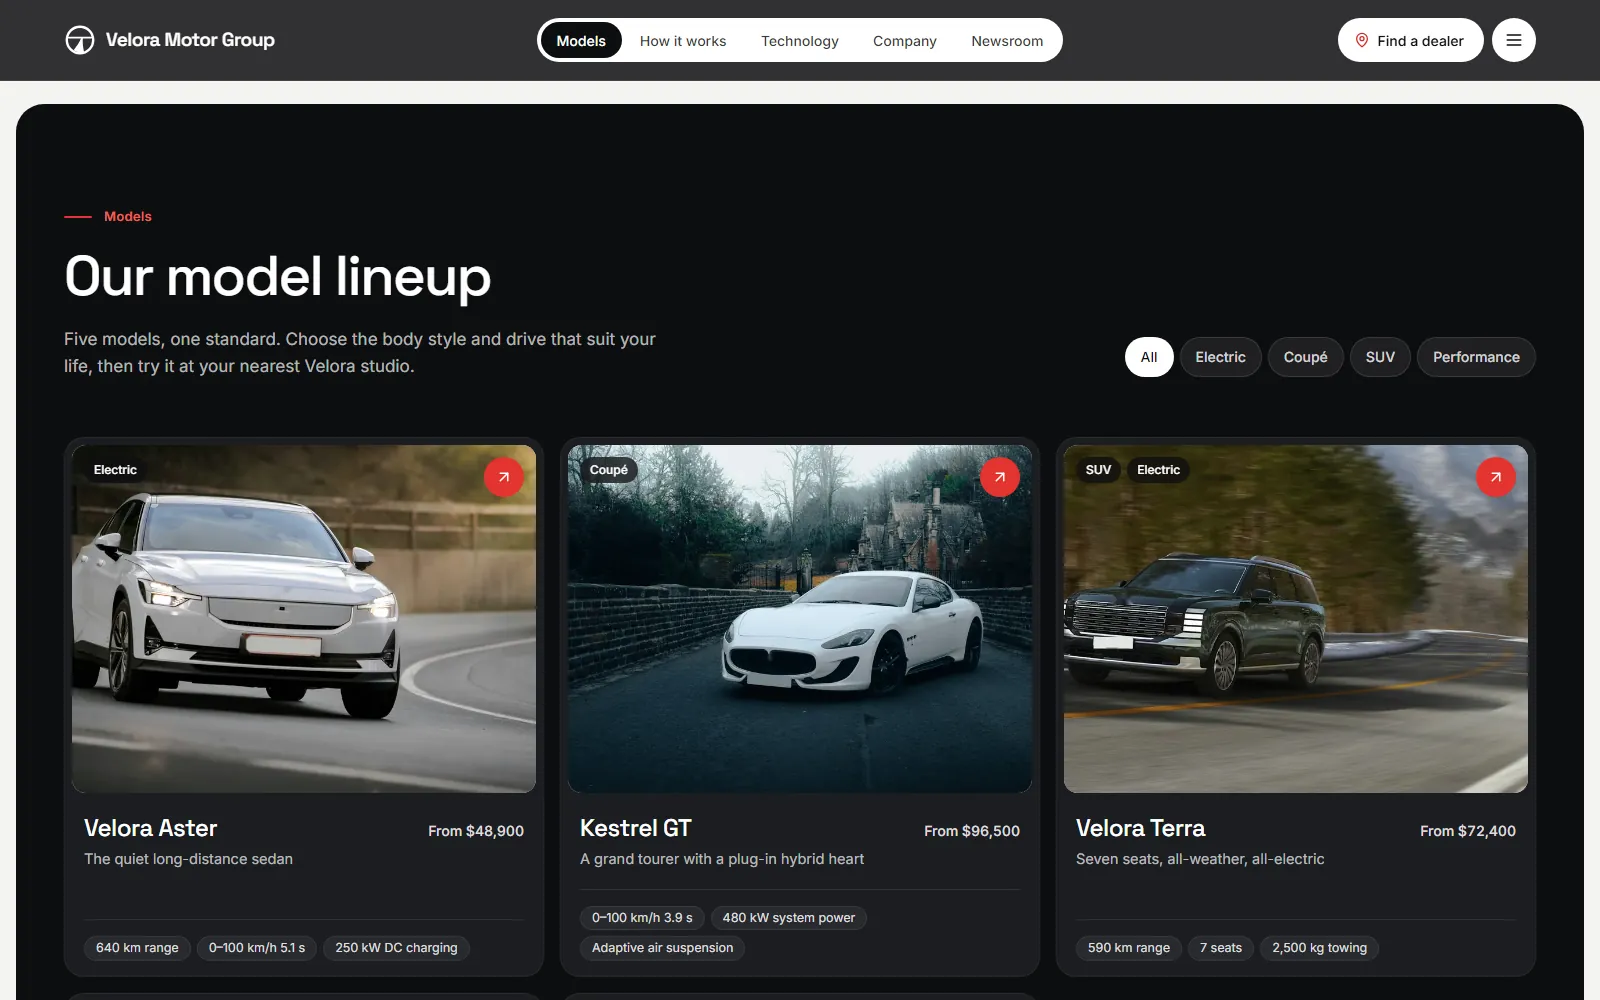
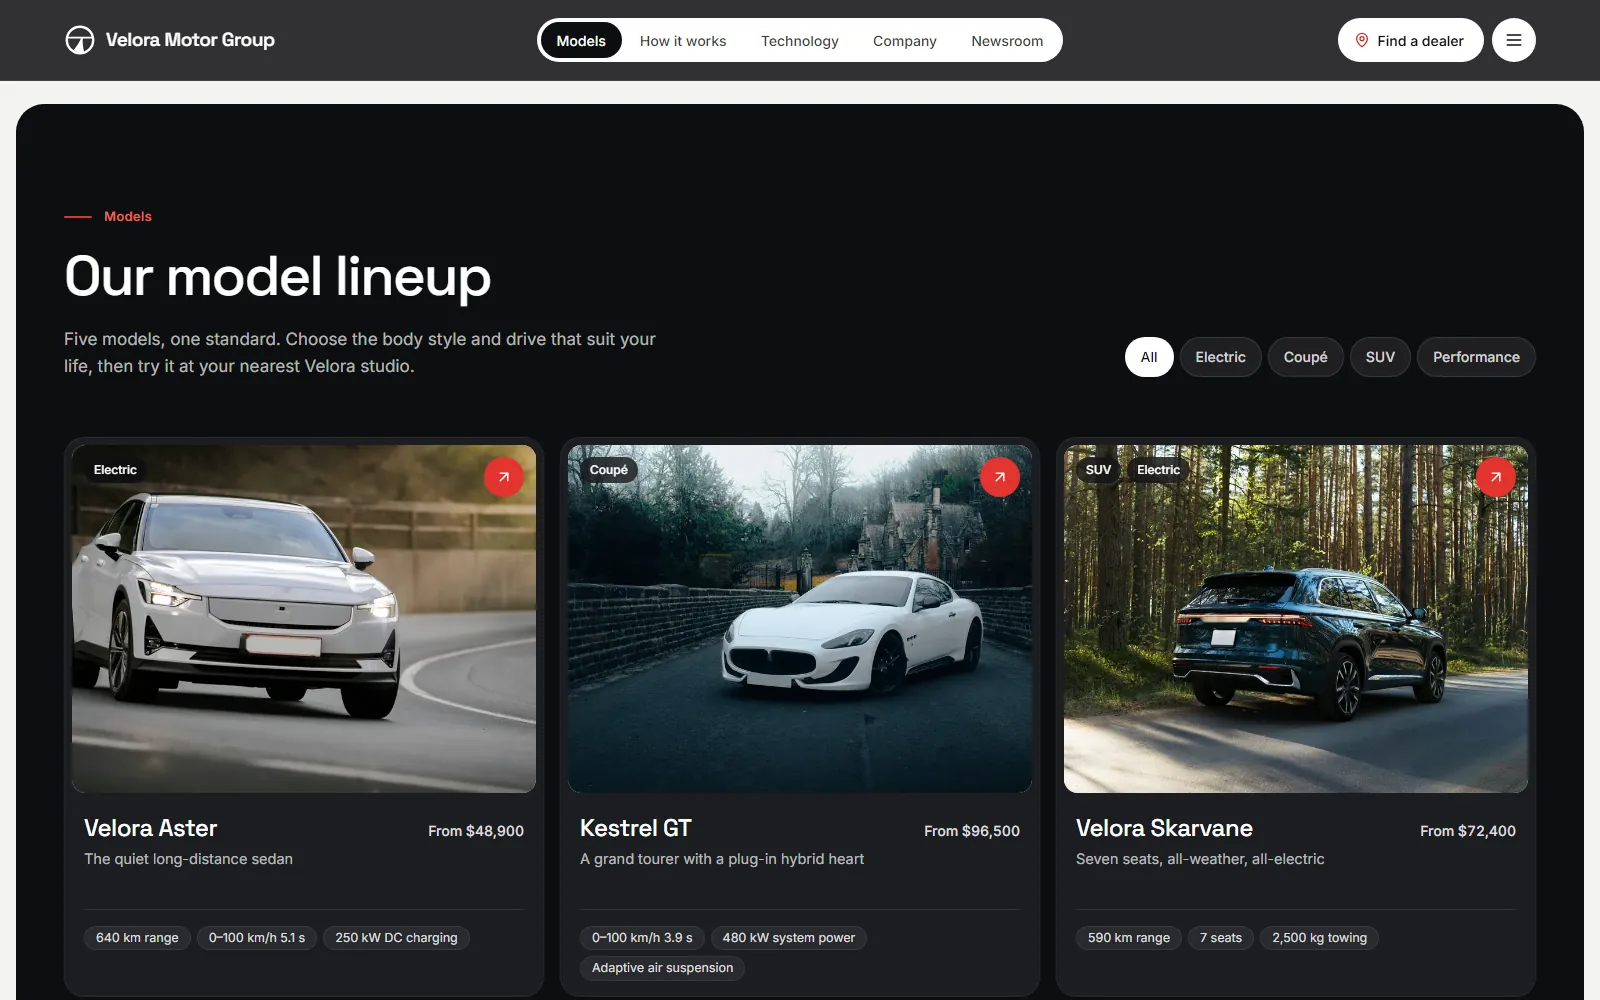
fix(templates): Velora hero pill wraps inside its outline, fresh catalog images
- The hero highlight pill is as wide as its text, at most as wide as the title; a longer highlight
  wraps onto two lines inside the outline at every width instead of spilling past it.
- Catalog images velora-preview/-1/-2 re-shot from the fixed demo (new mobile hero, Skarvane card).
- Catalog copy lists the month names among the CMS-editable texts.

diff --git a/src/content/templates/velora.content.ts b/src/content/templates/velora.content.ts
@@ -4,7 +4,7 @@
 // bahasa Inggris", dan "website perusahaan multinasional" di isi. Klaim wajib jujur: formulir test drive & newsletter
 // hanya menyusun pesan WhatsApp/email (tanpa penyimpanan data), tidak ada sistem booking, stok, atau pembayaran online;
 // nama & angka di demo fiktif; SEMUA teks yang tampil (termasuk label & pesan galat formulir, label kontak, judul kolom
-// footer) adalah field CMS, jadi bisa diganti lewat CMS, termasuk ke bahasa Indonesia.
+// footer, nama bulan pada tanggal) adalah field CMS, jadi bisa diganti lewat CMS, termasuk ke bahasa Indonesia.
 // Demo: Velora Motor Group, grup otomotif fiktif ber-HQ di Zurich.
 import type { TemplatePageContent } from './page.types';
 
@@ -67,7 +67,7 @@ export const content: TemplatePageContent = {
     'Prinsip perusahaan, kartu bento, dan baris berpanah beserta tujuan tautannya.',
     'Daftar model lengkap dengan kategori untuk filter, harga, spesifikasi, foto, dan tautan.',
     'Langkah kepemilikan, kartu teknologi, angka perusahaan, testimoni, dan berita.',
-    'Semua teks formulir test drive (label, pilihan, pesan galat, tombol, kalimat pesan), WhatsApp dan email penerima, kantor pusat, studio, peta, newsletter, judul kolom footer, dan media sosial.',
+    'Semua teks formulir test drive (label, pilihan, pesan galat, tombol, kalimat pesan), WhatsApp dan email penerima, kantor pusat, studio, peta, newsletter, judul kolom footer, nama bulan pada tanggal, dan media sosial.',
   ],
   cmsNote:
     'Salinan demo berbahasa Inggris, tetapi semua teks yang tampil bisa Anda tulis ulang lewat CMS dalam bahasa apa pun, termasuk bahasa Indonesia, dari menu sampai label dan pesan galat formulir. Ikon kartu dan langkah dipilih otomatis dari judul yang Anda tulis.',

diff --git a/src/templates/velora/Hero.tsx b/src/templates/velora/Hero.tsx
@@ -24,8 +24,9 @@ function PillTitle({ title, highlight }: { title: string; highlight: string }) {
   return (
     <>
       {before}
-      {/* HP: sorotan panjang (> ±16 huruf) boleh terbagi dua baris di dalam pil, tidak terpotong tepi kartu */}
-      <span className="inline-flex max-w-full items-center gap-[0.16em] align-[-0.06em] @2xl:whitespace-nowrap">
+      {/* Pil selebar isinya, maks. selebar judul: sorotan yang lebih panjang dari judul terbagi dua baris DI DALAM pil
+          (tidak terpotong tepi kartu atau keluar dari garis pil); satu kata tidak pernah terbagi */}
+      <span className="inline-flex max-w-full items-center gap-[0.16em] align-[-0.06em]">
         <span className="min-w-0 rounded-[0.62em] px-[0.42em] pb-[0.06em] leading-[1.18] ring-[0.045em] ring-inset ring-white/80 [overflow-wrap:anywhere]">{mark}</span>
         <span aria-hidden className="vl-chip flex h-[0.86em] w-[0.86em] shrink-0 items-center justify-center rounded-full bg-(--vl-red) text-(--vl-on-red)">
           <ArrowDownRight className="h-[0.52em] w-[0.52em]" strokeWidth={2.4} />

diff --git a/src/templates/__tests__/velora.test.tsx b/src/templates/__tests__/velora.test.tsx
@@ -359,9 +359,9 @@ describe('Velora: demo', () => {
     expect(h1.textContent).toBe('Seven decades of driving what comes next');
     const pill = within(h1).getByText('driving');
     expect(pill.className).toMatch(/rounded-\[0\.62em\]/);
-    // HP: sorotan panjang boleh terbagi dua baris di dalam pil (tidak terpotong); layar lebar: satu baris
-    expect(pill.parentElement!.className).toContain('@2xl:whitespace-nowrap');
-    expect(pill.parentElement!.className.split(' ')).not.toContain('whitespace-nowrap');
+    // Sorotan yang lebih panjang dari judul terbagi dua baris DI DALAM pil (tidak terpotong / keluar dari garis pil)
+    expect(pill.parentElement!.className).not.toMatch(/whitespace-nowrap/);
+    expect(pill.className).toMatch(/\bmin-w-0\b/);
     expect(h1.querySelector('.vl-chip')).toHaveAttribute('aria-hidden', 'true');
     expect(within(hero).getByText('Drive the future today')).toBeInTheDocument();
     const explore = within(hero).getByRole('link', { name: 'Explore models' });
